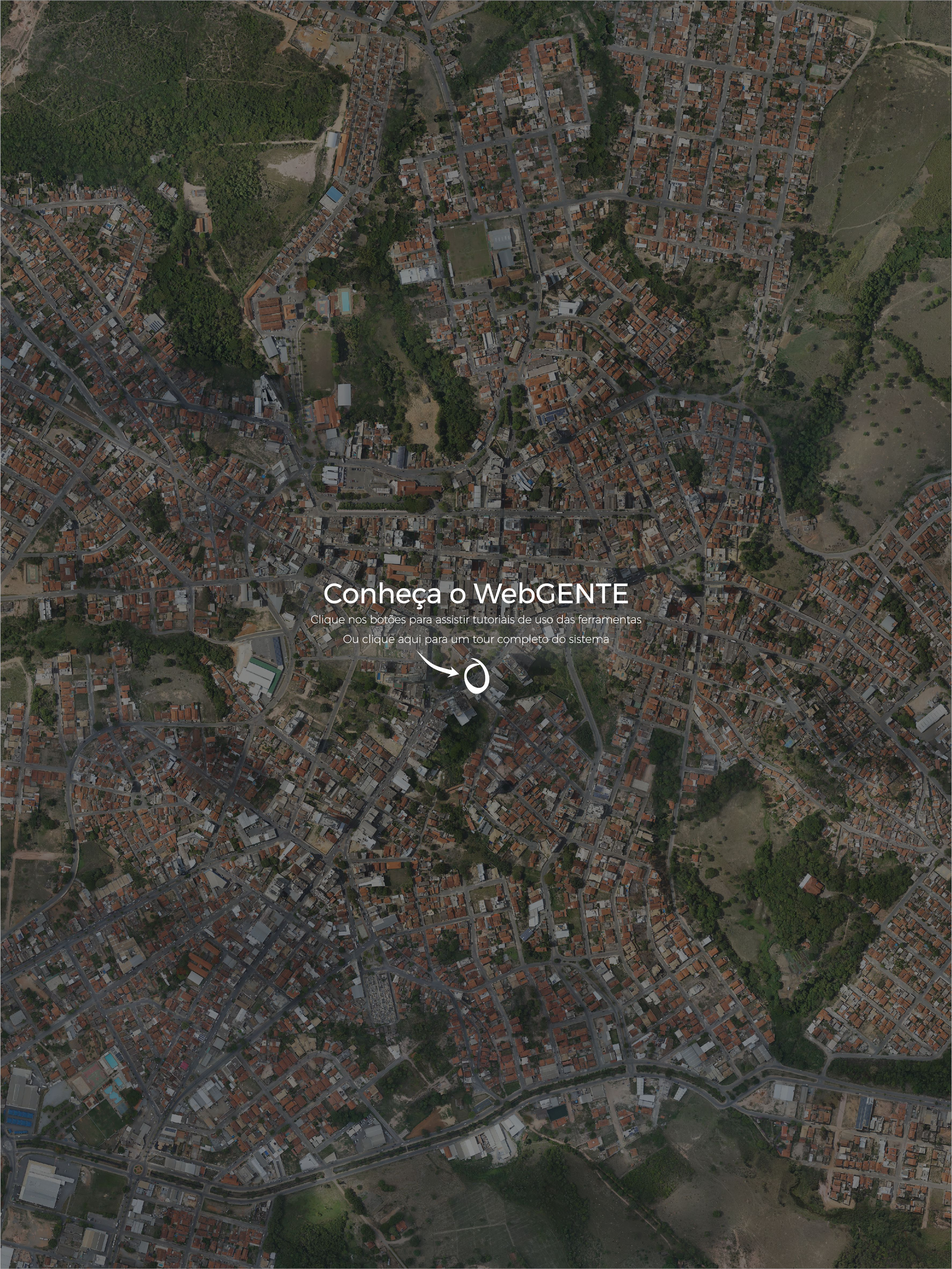
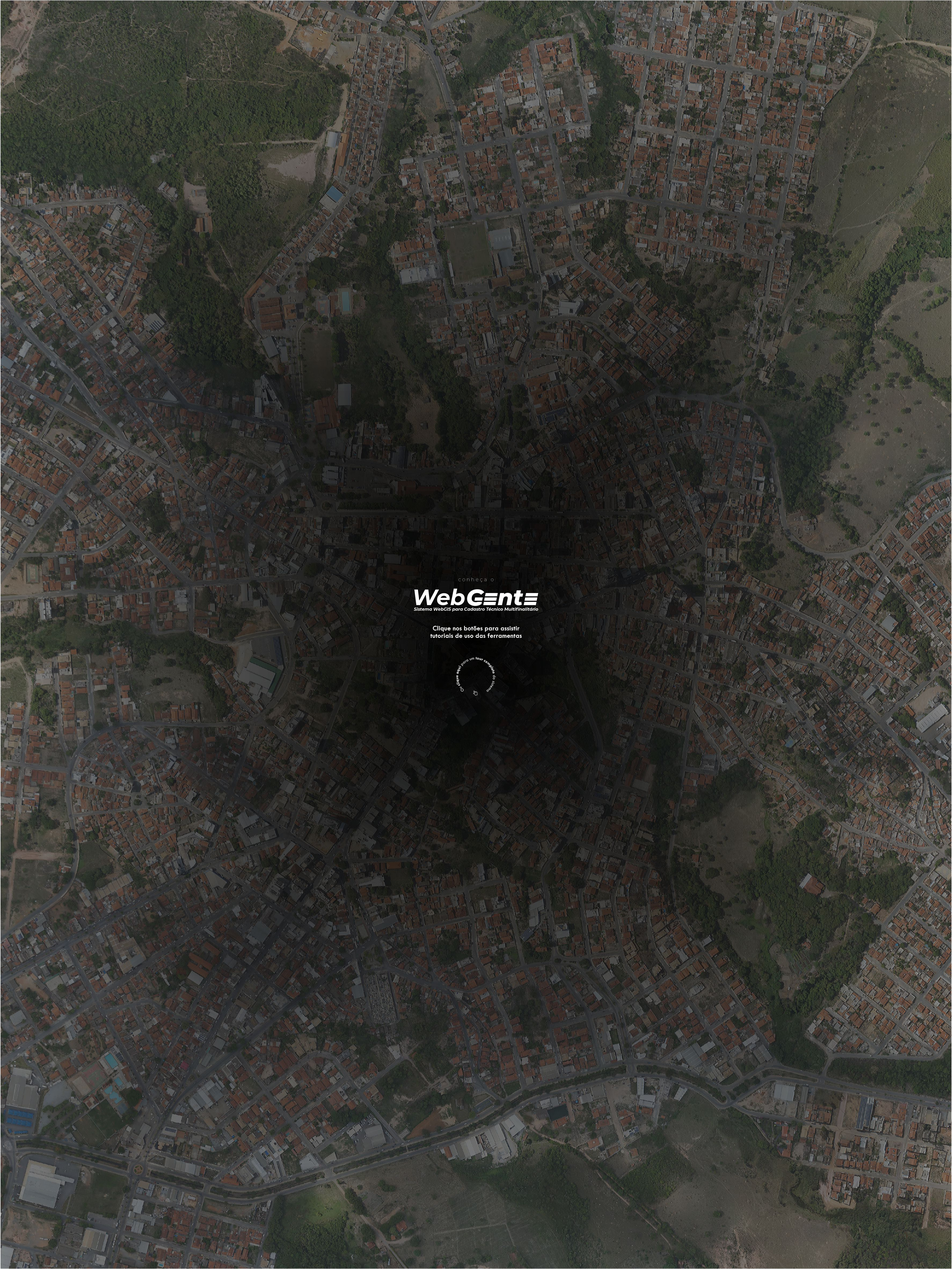
Scroll Lateral
Foi adicionado o scroll lateral ao site, existem problemas de responsividade que devem ser resolvidos!

diff --git a/public/css/style.css b/public/css/style.css
@@ -1,10 +1,21 @@
 /*Folha de estilo do site */
 
+
+* {
+   margin:0;
+   padding:0;
+}
+
+
 html, body {
    height: 100%;
    margin: 0;
    background-color: black;
 }
+
+
+
+
 
 /* Extra small devices (portrait phones, less than 576px)*/
 /* No media query for `xs` since this is the default in Bootstrap */
@@ -17,8 +28,6 @@ html, body {
 
 /* Medium devices (tablets, 768px and up) */
 @media (min-width: 768px) { 
-
-  
 
 
  }
@@ -33,6 +42,12 @@ html, body {
 
     
  }
+
+
+
+
+
+
 
 
  /*IMPORTANDO FONTE MONTSERRAT*/
@@ -102,9 +117,17 @@ a {
 }
 
 
- /* Barra de navegação */
 
- .navbar {
+
+
+
+
+
+
+ /* Barra de navegação do website */
+
+ .navbarwebsite {
+
    position: relative;
    display: -ms-flexbox;
    display: flex;
@@ -114,12 +137,15 @@ a {
    align-items: center;
    -ms-flex-pack: justify;
    justify-content: space-between;
-   padding: 0.5rem 1rem;
+   padding: 1px;
+   justify-content: center;
    
 }
 
  .navpadding {
+
     padding: 5px 20px;
+    margin-top: 10px;
  }
 
 
@@ -129,7 +155,7 @@ a {
 
 
 .cordefundo {
-   background-color: black;
+   background-image: linear-gradient( black,#343a40);
 }
 
 .divisor {
@@ -139,11 +165,74 @@ a {
    margin: 12px 15px;
    }
 
+
+@media (max-width: 576px) {
+   
+   .navbarwebsite {
+      position: relative;
+      display: flex;
+      align-items: center;
+      justify-content: center;
+      
+   }
+
+   .navpadding {
+    
+      padding: 1px 1px;
+      font-size: 10px;
+   }
+
+   .divisor {
+   
+   width: 1px;
+   background: white;
+   margin: 10px 1px;
+
+   }
+   
+
+}
+
+@media (max-width: 327px) {
+   
+   .navbarwebsite {
+
+      position: relative;
+      display: -ms-flexbox;
+      display: flex;
+      -ms-flex-wrap: wrap;
+      flex-wrap: wrap;
+      -ms-flex-align: center;
+      align-items: center;
+      -ms-flex-pack: justify;
+      justify-content: space-between;
+      justify-content: center;
+      
+   }
+
+   .navpadding {
+    
+      font-size: 10px;
+   }
+
+   .divisor {
+   
+   width: 1px;
+   background: white;
+   margin: 10px 0.2px;
+
+   }
+   
+
+}
+
+
+
+
+
+   
 /* CSS do WebGENTE */
 
-hr {
-   color: blanchedalmond;
-}
 
 #map {
    height: 100vh;
@@ -218,26 +307,117 @@ th {
    border:none;
 }
 
-/* Estilo da parte de showroom */
 
-#showroom {
-   height: 100vh;
-   padding-top: 65px;
-   color: blanchedalmond;
+
+
+
+
+/* Barra de navegação do webgente */
+
+.navbarwebgente {
+
+   position: relative;
+   display: -ms-flexbox;
+   display: flex;
+   -ms-flex-wrap: wrap;
+   flex-wrap: wrap;
+   -ms-flex-align: center;
+   align-items: center;
+   -ms-flex-pack: justify;
+   justify-content: space-between;
+   padding: 0.5rem 1rem;
+   justify-content: center;
+   
 }
+
+
+.cordefundo2 {
+
+   background-image: linear-gradient( #343a40, #343a40);
+
+}
+
+
+
+/*Telas menores*/
+@media (min-width: 576px) {
+
+   .showbtn1 {
+      display: none;
+   }
+
+}
+
+/*Telas maiores*/
+@media (max-width: 576px) {
+
+   .showbtn2 {
+      display: none;
+   }
+
+}
+
+
+
+
+
+
+
+/*Alterações para o scroll*/
+
+.box1 {
+   position:absolute;
+   left:0;
+   height:100%;
+   background-image: url(/img/viçosa.png);
+}
+
+.box2 {
+   position:absolute;
+   left:0;
+   height:100%;
+   background-image: url(/img/bomdespacho.png);
+}
+
+.box3 {
+   position:absolute;
+   left:0;
+   height:100%;
+   background-image: url(/img/jacobina.png);
+}
+
+
+
+body > div {
+   position:fixed;
+   top: 0;
+   left:0;
+   width:100%;
+   height:100%;
+   background:transparent center no-repeat;
+   background-size:cover;
+}
+
+
 
 /* Estilo da parte de documentação */
-
-#documentacao {
-   height: 100vh;
-   padding-top: 65px;
-   color: blanchedalmond;
-}
 
 .btn-doc {
    height: 100px;
    width: 100px;
+   border-radius: 50px;
 }
+
+.box4 {
+   position:absolute;
+   left:0;
+   right: 0;
+   height:100%;
+   background-image: url(/img/backbox4.png);
+   padding: 100px;
+   color: blanchedalmond;
+}
+
 
 /* Estilo do Modal de Documentação */
 

diff --git a/public/js/webgente.js b/public/js/webgente.js
@@ -31,8 +31,8 @@ var optionsScale = {
 L.control.scale(optionsScale).addTo(map);
 
 /* TODO: Mudar a imagem carregada de acordo com o tipo de dispositivo */
-var image = L.imageOverlay('/img/landing.jpg',bounds).addTo(map);
-var image2 = L.imageOverlay('/img/landing.jpg',bounds);
+var image = L.imageOverlay('/img/mapbackground2.png',bounds).addTo(map);
+var image2 = L.imageOverlay('/img/mapbackground2.png',bounds);
 
 map.fitBounds(boundsToShow);
 
